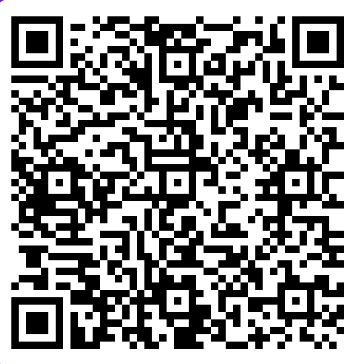
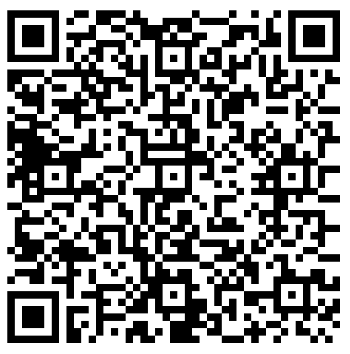
Update QR code and copypaste list

diff --git a/src/assets/pix/pixkeys.ts b/src/assets/pix/pixkeys.ts
@@ -1,20 +1,20 @@
 export const pixKeys = {
-  pix1: "00020126440014BR.GOV.BCB.PIX0122ma.sophiia@hotmail.com5204000053039865406152.745802BR5924Mariana Sophia Apparicio6009SAO PAULO62140510NARHoGrNIh63045295",
-  pix2: "0000000000000000000000000000000000000000",
-  pix3: "0000000000000000000000000000000000000000",
-  pix4: "0000000000000000000000000000000000000000",
-  pix5: "0000000000000000000000000000000000000000",
-  pix6: "0000000000000000000000000000000000000000",
-  pix7: "0000000000000000000000000000000000000000",
-  pix8: "0000000000000000000000000000000000000000",
-  pix9: "0000000000000000000000000000000000000000",
-  pix10: "0000000000000000000000000000000000000000",
-  pix11: "0000000000000000000000000000000000000000",
-  pix12: "0000000000000000000000000000000000000000",
-  pix13: "0000000000000000000000000000000000000000",
-  pix14: "0000000000000000000000000000000000000000",
-  pix15: "0000000000000000000000000000000000000000",
-  pix16: "0000000000000000000000000000000000000000",
-  pix17: "0000000000000000000000000000000000000000",
-  pix18: "0000000000000000000000000000000000000000",
+  pix1: "00020126440014BR.GOV.BCB.PIX0122ma.sophiia@hotmail.com5204000053039865406211.005802BR5924Mariana Sophia Apparicio6009SAO PAULO62140510l8JJGQm4hL6304A1A0",
+  pix2: "00020126440014BR.GOV.BCB.PIX0122ma.sophiia@hotmail.com5204000053039865406287.005802BR5924Mariana Sophia Apparicio6009SAO PAULO62140510tTAF8mWDdG6304455A",
+  pix3: "00020126440014BR.GOV.BCB.PIX0122ma.sophiia@hotmail.com5204000053039865406354.005802BR5924Mariana Sophia Apparicio6009SAO PAULO62140510wQvQYyU0tF6304A63C",
+  pix4: "00020126440014BR.GOV.BCB.PIX0122ma.sophiia@hotmail.com5204000053039865406441.005802BR5924Mariana Sophia Apparicio6009SAO PAULO62140510WXuaLCdvHR6304AA8D",
+  pix5: "00020126440014BR.GOV.BCB.PIX0122ma.sophiia@hotmail.com5204000053039865406529.005802BR5924Mariana Sophia Apparicio6009SAO PAULO62140510tnN4yCHqiO63040C5F",
+  pix6: "00020126440014BR.GOV.BCB.PIX0122ma.sophiia@hotmail.com5204000053039865406642.005802BR5924Mariana Sophia Apparicio6009SAO PAULO62140510u7ccePTxr063046397",
+  pix7: "00020126440014BR.GOV.BCB.PIX0122ma.sophiia@hotmail.com5204000053039865406783.005802BR5924Mariana Sophia Apparicio6009SAO PAULO62140510G3JilF3OMJ630453FC",
+  pix8: "00020126440014BR.GOV.BCB.PIX0122ma.sophiia@hotmail.com5204000053039865406954.005802BR5924Mariana Sophia Apparicio6009SAO PAULO62140510ujYddT5XKd63046C45",
+  pix9: "00020126440014BR.GOV.BCB.PIX0122ma.sophiia@hotmail.com52040000530398654071187.005802BR5924Mariana Sophia Apparicio6009SAO PAULO62140510lv5nvFwWJx630468B2",
+  pix10: "00020126440014BR.GOV.BCB.PIX0122ma.sophiia@hotmail.com52040000530398654071456.005802BR5924Mariana Sophia Apparicio6009SAO PAULO6214051013y9XU6aGw63046B2D",
+  pix11: "00020126440014BR.GOV.BCB.PIX0122ma.sophiia@hotmail.com52040000530398654071773.005802BR5924Mariana Sophia Apparicio6009SAO PAULO62140510aeSVXxbaw06304745A",
+  pix12: "00020126440014BR.GOV.BCB.PIX0122ma.sophiia@hotmail.com52040000530398654072168.005802BR5924Mariana Sophia Apparicio6009SAO PAULO621405108URNcaQWPo6304CF16",
+  pix13: "00020126440014BR.GOV.BCB.PIX0122ma.sophiia@hotmail.com52040000530398654072645.005802BR5924Mariana Sophia Apparicio6009SAO PAULO62140510VySaY4IQjn6304854B",
+  pix14: "00020126440014BR.GOV.BCB.PIX0122ma.sophiia@hotmail.com52040000530398654073228.005802BR5924Mariana Sophia Apparicio6009SAO PAULO6214051062UDIzZwWL6304E467",
+  pix15: "00020126440014BR.GOV.BCB.PIX0122ma.sophiia@hotmail.com52040000530398654073938.005802BR5924Mariana Sophia Apparicio6009SAO PAULO62140510TE6lXLqBR46304283C",
+  pix16: "00020126440014BR.GOV.BCB.PIX0122ma.sophiia@hotmail.com52040000530398654074006.005802BR5924Mariana Sophia Apparicio6009SAO PAULO621405102FH3PFoZ1C6304CB74",
+  pix17: "00020126440014BR.GOV.BCB.PIX0122ma.sophiia@hotmail.com52040000530398654074167.005802BR5924Mariana Sophia Apparicio6009SAO PAULO62140510TpayYrGllm6304AA07",
+  pix18: "00020126440014BR.GOV.BCB.PIX0122ma.sophiia@hotmail.com5204000053039865802BR5924Mariana Sophia Apparicio6009SAO PAULO62140510kQWvrvIomm6304D464",
 }

diff --git a/src/components/GiftList/index.tsx b/src/components/GiftList/index.tsx
@@ -18,7 +18,24 @@ import image15 from "../../assets/image15.png"
 import image16 from "../../assets/image16.png"
 import image17 from "../../assets/image17.png"
 import image18 from "../../assets/image18.png"
-import pixCode from "../../assets/pix/pix1.png"
+import pix1 from "../../assets/pix/pix1.png"
+import pix2 from "../../assets/pix/pix2.png"
+import pix3 from "../../assets/pix/pix3.png"
+import pix4 from "../../assets/pix/pix4.png"
+import pix5 from "../../assets/pix/pix5.png"
+import pix6 from "../../assets/pix/pix6.png"
+import pix7 from "../../assets/pix/pix7.png"
+import pix8 from "../../assets/pix/pix8.png"
+import pix9 from "../../assets/pix/pix9.png"
+import pix10 from "../../assets/pix/pix10.png"
+import pix11 from "../../assets/pix/pix11.png"
+import pix12 from "../../assets/pix/pix12.png"
+import pix13 from "../../assets/pix/pix13.png"
+import pix14 from "../../assets/pix/pix14.png"
+import pix15 from "../../assets/pix/pix15.png"
+import pix16 from "../../assets/pix/pix16.png"
+import pix17 from "../../assets/pix/pix17.png"
+import pix18 from "../../assets/pix/pix18.png"
 import nubankLogo from "../../assets/nubanklogo.png"
 import { pixKeys } from "../../assets/pix/pixkeys"
 import copyIcon from "../../assets/copypaste.svg"
@@ -50,6 +67,30 @@ const GiftList = () => {
         setCopied(false)
       }, 2000)
     }
+  }
+
+  const getPixImage = (giftId: number) => {
+    const pixImages: { [key: number]: string } = {
+      1: pix1,
+      2: pix2,
+      3: pix3,
+      4: pix4,
+      5: pix5,
+      6: pix6,
+      7: pix7,
+      8: pix8,
+      9: pix9,
+      10: pix10,
+      11: pix11,
+      12: pix12,
+      13: pix13,
+      14: pix14,
+      15: pix15,
+      16: pix16,
+      17: pix17,
+      18: pix18,
+    }
+    return pixImages[giftId] || pix1
   }
 
   useEffect(() => {
@@ -256,7 +297,7 @@ const GiftList = () => {
 
               <div className="pix-code-container">
                 <img
-                  src={pixCode}
+                  src={getPixImage(selectedGift)}
                   alt="Código PIX"
                   className="pix-code-image"
                 />

diff --git a/src/components/Countdown/index.css b/src/components/Countdown/index.css
@@ -3,8 +3,8 @@
   flex-direction: column;
   align-items: center;
   padding: 2rem;
-  background: var(--primary-green-gradient);
-  box-shadow: 0 8px 32px rgba(0, 0, 0, 0.1);
+  /* background: var(--primary-green-gradient); */
+  /* box-shadow: 0 8px 32px rgba(0, 0, 0, 0.1); */
   width: 100%;
 }
 

diff --git a/src/index.css b/src/index.css
@@ -23,8 +23,8 @@
     var(--secondary) 0%,
     var(--primary) 100%
   );
-  --tertiary: #6c8352;
-  --quaternary: #93a654;
+  --tertiary: #738b56;
+  --quaternary: #a9bc6c;
   --button-bank: #820ad1;
   --secondary-gradient: linear-gradient(
     135deg,

diff --git a/src/components/PresenceConfirmation/index.css b/src/components/PresenceConfirmation/index.css
@@ -4,7 +4,7 @@
   align-items: center;
   justify-content: center;
   min-height: 100vh;
-  background: var(--primary-green-gradient);
+  /* background: var(--primary-green-gradient); */
   padding: 2rem;
   text-align: center;
 }

diff --git a/src/components/GiftList/index.css b/src/components/GiftList/index.css
@@ -279,7 +279,7 @@
 }
 
 .gift-list-note {
-  background: var(--primary-green-gradient);
+  /* background: var(--primary-green-gradient); */
   border-radius: 16px;
   padding: 2rem;
   box-shadow: 0 8px 32px rgba(0, 0, 0, 0.1);

diff --git a/src/components/Ceremony/index.css b/src/components/Ceremony/index.css
@@ -3,7 +3,7 @@
   flex-direction: column;
   align-items: center;
   padding: 4rem 2rem;
-  background: var(--primary-green-gradient);
+  /* background: var(--primary-green-gradient); */
   min-height: 80vh;
 }
 
